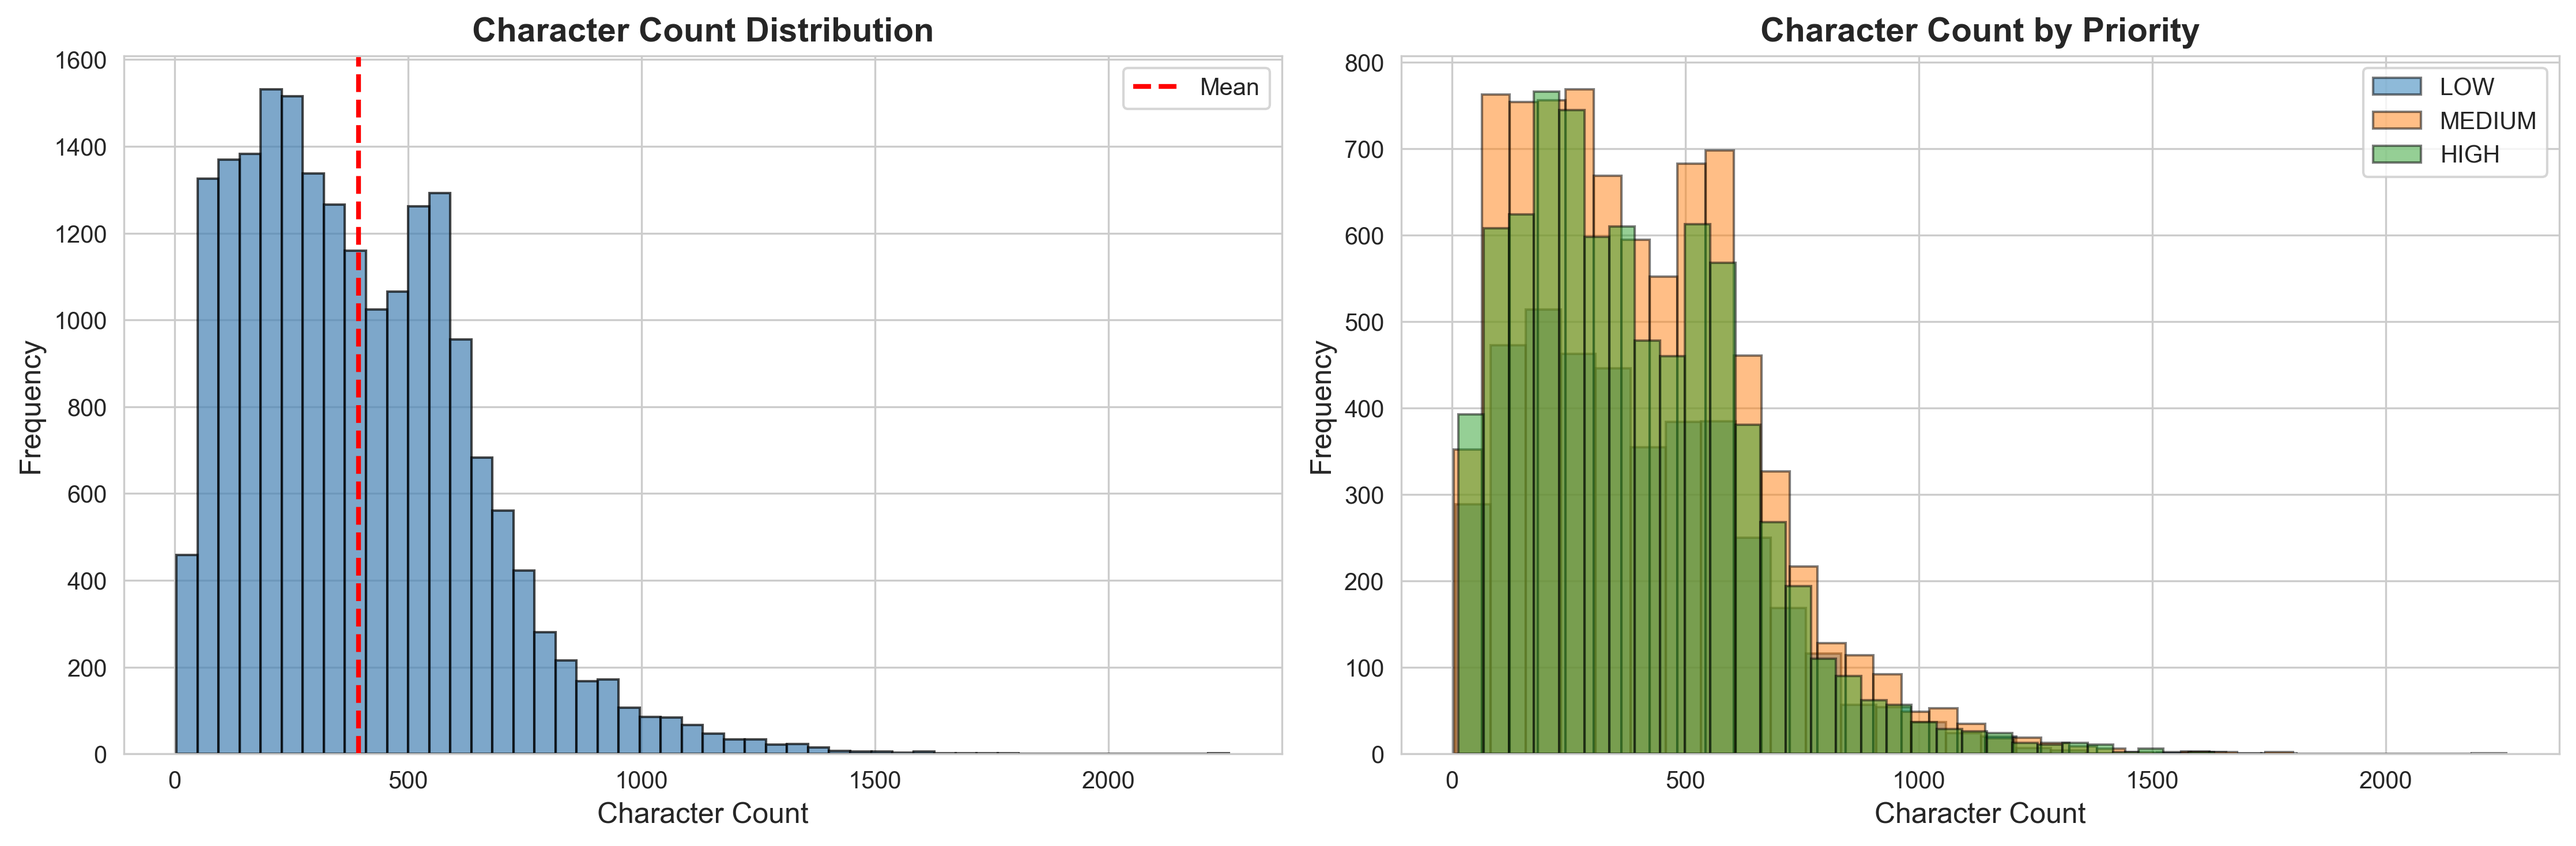
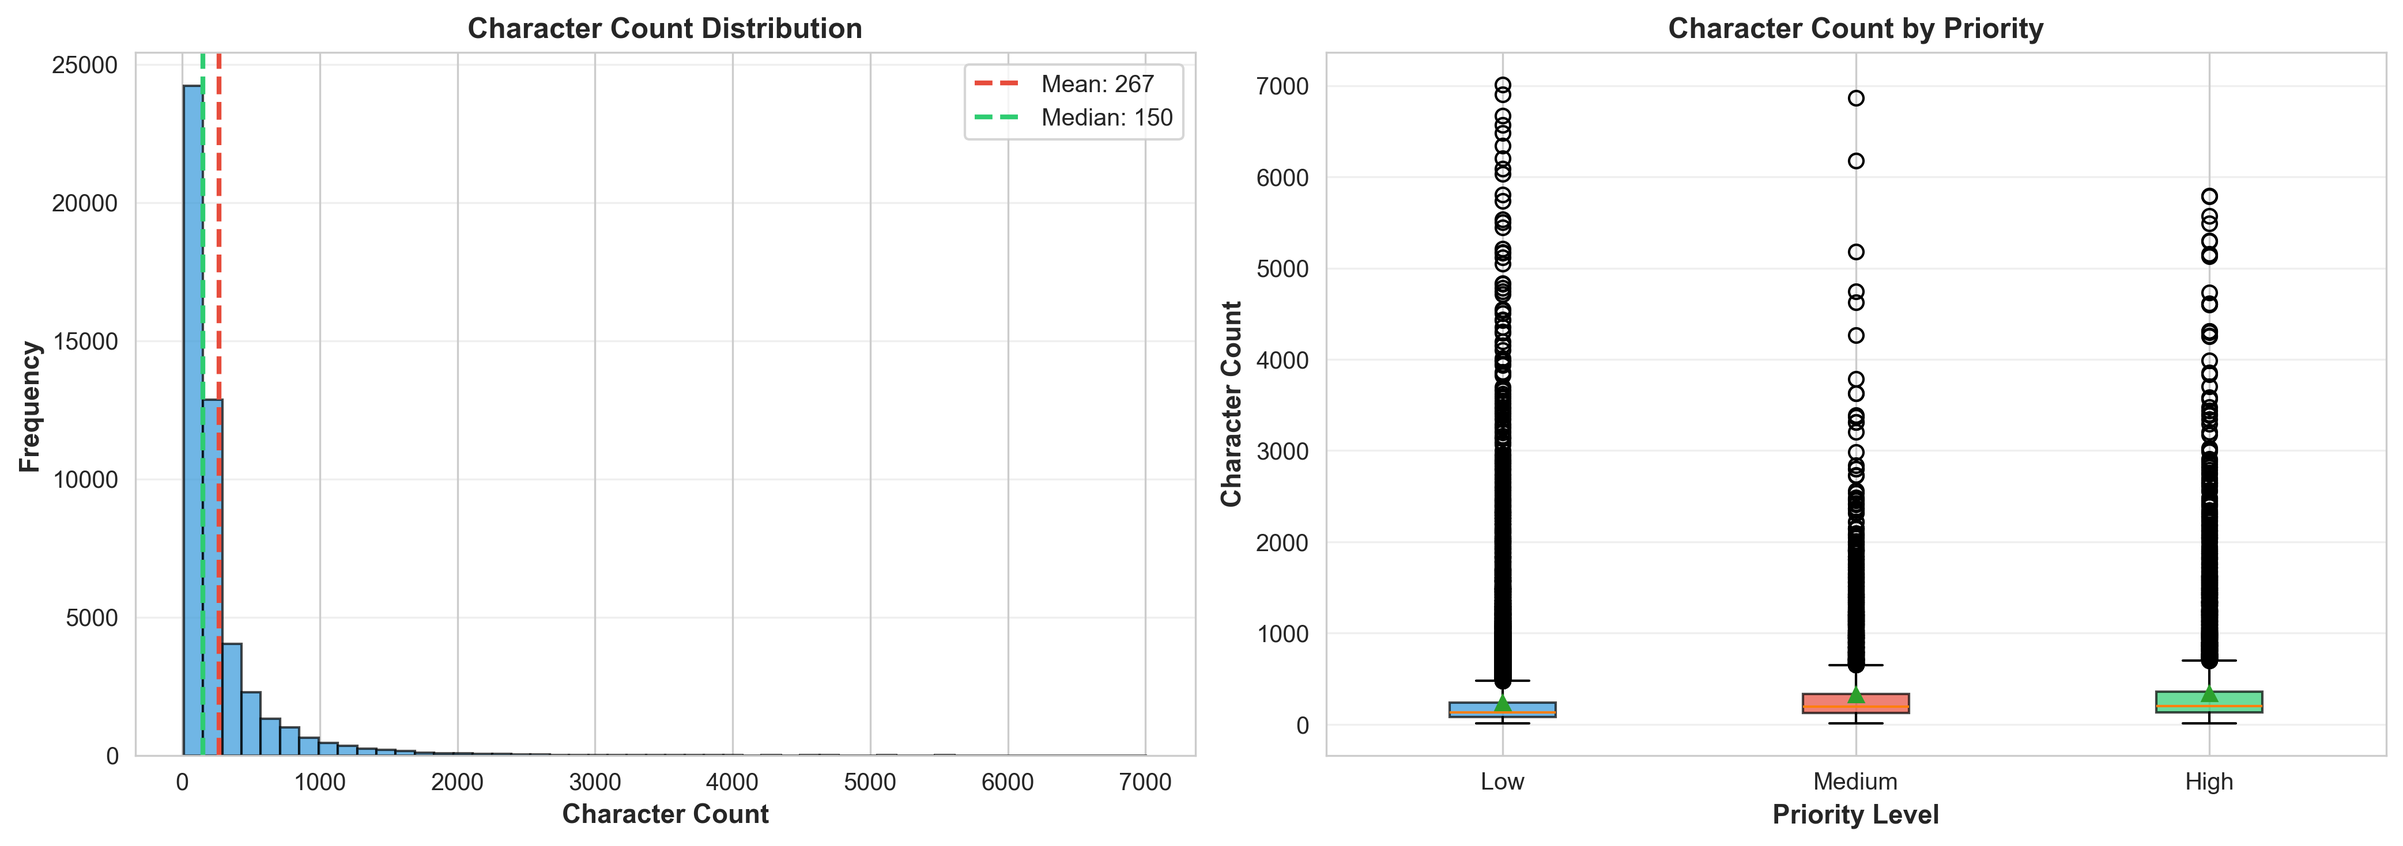
visualisations

diff --git a/urgency_classificator/scripts/generate_dataset_viz.py b/urgency_classificator/scripts/generate_dataset_viz.py
@@ -1,0 +1,333 @@
+#!/usr/bin/env python3
+"""
+Generate Dataset Analysis Visualizations
+
+Analyzes clean.csv and generates distribution charts:
+- Priority distribution (class balance)
+- Text length distributions (characters & words)
+- Sample statistics
+
+Usage:
+    python scripts/generate_dataset_viz.py
+    python scripts/generate_dataset_viz.py --output visualizations/
+"""
+
+import pandas as pd
+import matplotlib.pyplot as plt
+import seaborn as sns
+import numpy as np
+import argparse
+from pathlib import Path
+
+# Set style
+sns.set_style("whitegrid")
+plt.rcParams['figure.facecolor'] = 'white'
+
+
+def create_priority_distribution(df: pd.DataFrame, output_path: str):
+    """Create priority class distribution chart."""
+    fig, ax = plt.subplots(figsize=(10, 6))
+
+    # Count and percentage
+    priority_counts = df['priority'].value_counts().sort_index()
+    total = len(df)
+
+    colors = ['#3498db', '#e74c3c', '#2ecc71']
+    bars = ax.bar(
+        priority_counts.index.str.capitalize(),
+        priority_counts.values,
+        color=colors,
+        edgecolor='black',
+        linewidth=1.2
+    )
+
+    # Add value labels on bars
+    for i, (bar, count) in enumerate(zip(bars, priority_counts.values)):
+        height = bar.get_height()
+        percentage = (count / total) * 100
+        ax.text(
+            bar.get_x() + bar.get_width()/2.,
+            height + total * 0.01,
+            f'{count:,}\n({percentage:.1f}%)',
+            ha='center',
+            va='bottom',
+            fontsize=11,
+            fontweight='bold'
+        )
+
+    ax.set_xlabel('Priority Level', fontsize=12, fontweight='bold')
+    ax.set_ylabel('Number of Tickets', fontsize=12, fontweight='bold')
+    ax.set_title(f'Urgency Priority Distribution\nTotal: {total:,} tickets',
+                 fontsize=14, fontweight='bold', pad=20)
+    ax.grid(axis='y', alpha=0.3)
+
+    plt.tight_layout()
+    plt.savefig(output_path, dpi=300, bbox_inches='tight')
+    plt.close()
+    print(f"✓ Saved: {output_path}")
+
+
+def create_character_distribution(df: pd.DataFrame, output_path: str):
+    """Create character count distribution histogram."""
+    fig, (ax1, ax2) = plt.subplots(1, 2, figsize=(14, 5))
+
+    # Calculate character counts
+    char_counts = df['body'].str.len()
+
+    # Histogram
+    ax1.hist(char_counts, bins=50, color='#3498db',
+             edgecolor='black', alpha=0.7)
+    ax1.axvline(char_counts.mean(), color='#e74c3c', linestyle='--',
+                linewidth=2, label=f'Mean: {char_counts.mean():.0f}')
+    ax1.axvline(char_counts.median(), color='#2ecc71', linestyle='--',
+                linewidth=2, label=f'Median: {char_counts.median():.0f}')
+    ax1.set_xlabel('Character Count', fontsize=11, fontweight='bold')
+    ax1.set_ylabel('Frequency', fontsize=11, fontweight='bold')
+    ax1.set_title('Character Count Distribution',
+                  fontsize=12, fontweight='bold')
+    ax1.legend()
+    ax1.grid(axis='y', alpha=0.3)
+
+    # Box plot by priority
+    priority_order = ['low', 'medium', 'high']
+    df_with_chars = df.copy()
+    df_with_chars['char_count'] = char_counts
+
+    box_data = [df_with_chars[df_with_chars['priority'] == p]['char_count'].values
+                for p in priority_order]
+
+    bp = ax2.boxplot(box_data, labels=[p.capitalize() for p in priority_order],
+                     patch_artist=True, showmeans=True)
+
+    colors = ['#3498db', '#e74c3c', '#2ecc71']
+    for patch, color in zip(bp['boxes'], colors):
+        patch.set_facecolor(color)
+        patch.set_alpha(0.7)
+
+    ax2.set_xlabel('Priority Level', fontsize=11, fontweight='bold')
+    ax2.set_ylabel('Character Count', fontsize=11, fontweight='bold')
+    ax2.set_title('Character Count by Priority',
+                  fontsize=12, fontweight='bold')
+    ax2.grid(axis='y', alpha=0.3)
+
+    plt.tight_layout()
+    plt.savefig(output_path, dpi=300, bbox_inches='tight')
+    plt.close()
+    print(f"✓ Saved: {output_path}")
+
+
+def create_word_distribution(df: pd.DataFrame, output_path: str):
+    """Create word count distribution histogram."""
+    fig, (ax1, ax2) = plt.subplots(1, 2, figsize=(14, 5))
+
+    # Calculate word counts
+    word_counts = df['body'].str.split().str.len()
+
+    # Histogram
+    ax1.hist(word_counts, bins=50, color='#9b59b6',
+             edgecolor='black', alpha=0.7)
+    ax1.axvline(word_counts.mean(), color='#e74c3c', linestyle='--',
+                linewidth=2, label=f'Mean: {word_counts.mean():.0f}')
+    ax1.axvline(word_counts.median(), color='#2ecc71', linestyle='--',
+                linewidth=2, label=f'Median: {word_counts.median():.0f}')
+    ax1.set_xlabel('Word Count', fontsize=11, fontweight='bold')
+    ax1.set_ylabel('Frequency', fontsize=11, fontweight='bold')
+    ax1.set_title('Word Count Distribution', fontsize=12, fontweight='bold')
+    ax1.legend()
+    ax1.grid(axis='y', alpha=0.3)
+
+    # Box plot by priority
+    priority_order = ['low', 'medium', 'high']
+    df_with_words = df.copy()
+    df_with_words['word_count'] = word_counts
+
+    box_data = [df_with_words[df_with_words['priority'] == p]['word_count'].values
+                for p in priority_order]
+
+    bp = ax2.boxplot(box_data, labels=[p.capitalize() for p in priority_order],
+                     patch_artist=True, showmeans=True)
+
+    colors = ['#3498db', '#e74c3c', '#2ecc71']
+    for patch, color in zip(bp['boxes'], colors):
+        patch.set_facecolor(color)
+        patch.set_alpha(0.7)
+
+    ax2.set_xlabel('Priority Level', fontsize=11, fontweight='bold')
+    ax2.set_ylabel('Word Count', fontsize=11, fontweight='bold')
+    ax2.set_title('Word Count by Priority', fontsize=12, fontweight='bold')
+    ax2.grid(axis='y', alpha=0.3)
+
+    plt.tight_layout()
+    plt.savefig(output_path, dpi=300, bbox_inches='tight')
+    plt.close()
+    print(f"✓ Saved: {output_path}")
+
+
+def create_statistics_summary(df: pd.DataFrame, output_path: str):
+    """Create comprehensive statistics visualization."""
+    fig, ((ax1, ax2), (ax3, ax4)) = plt.subplots(2, 2, figsize=(14, 10))
+
+    # Calculate metrics
+    char_counts = df['body'].str.len()
+    word_counts = df['body'].str.split().str.len()
+
+    # 1. Dataset Overview
+    ax1.axis('off')
+    overview_text = f"""
+DATASET OVERVIEW
+{'='*40}
+
+Total Samples: {len(df):,}
+
+Class Distribution:
+  LOW:    {(df['priority'] == 'low').sum():,} ({(df['priority'] == 'low').sum()/len(df)*100:.1f}%)
+  MEDIUM: {(df['priority'] == 'medium').sum():,} ({(df['priority'] == 'medium').sum()/len(df)*100:.1f}%)
+  HIGH:   {(df['priority'] == 'high').sum():,} ({(df['priority'] == 'high').sum()/len(df)*100:.1f}%)
+
+Text Length (Characters):
+  Mean:   {char_counts.mean():.1f}
+  Median: {char_counts.median():.1f}
+  Min:    {char_counts.min()}
+  Max:    {char_counts.max():,}
+  95th:   {char_counts.quantile(0.95):.0f}
+
+Text Length (Words):
+  Mean:   {word_counts.mean():.1f}
+  Median: {word_counts.median():.1f}
+  Min:    {word_counts.min()}
+  Max:    {word_counts.max():,}
+  95th:   {word_counts.quantile(0.95):.0f}
+    """
+    ax1.text(0.1, 0.5, overview_text, fontsize=10, family='monospace',
+             verticalalignment='center')
+    ax1.set_title('Dataset Statistics', fontsize=14, fontweight='bold', pad=20)
+
+    # 2. Percentile distribution (characters)
+    percentiles = [10, 25, 50, 75, 90, 95, 99]
+    char_percentiles = [char_counts.quantile(p/100) for p in percentiles]
+
+    ax2.barh(percentiles, char_percentiles, color='#3498db', edgecolor='black')
+    for i, (p, val) in enumerate(zip(percentiles, char_percentiles)):
+        ax2.text(val + char_counts.max()*0.02, p, f'{val:.0f}',
+                 va='center', fontweight='bold')
+    ax2.set_xlabel('Character Count', fontsize=11, fontweight='bold')
+    ax2.set_ylabel('Percentile', fontsize=11, fontweight='bold')
+    ax2.set_title('Character Count Percentiles',
+                  fontsize=12, fontweight='bold')
+    ax2.grid(axis='x', alpha=0.3)
+
+    # 3. Priority vs Length correlation
+    priority_stats = df.groupby('priority').agg({
+        'body': lambda x: x.str.len().mean()
+    }).reindex(['low', 'medium', 'high'])
+
+    bars = ax3.bar(
+        ['Low', 'Medium', 'High'],
+        priority_stats['body'],
+        color=['#3498db', '#e74c3c', '#2ecc71'],
+        edgecolor='black'
+    )
+
+    for bar in bars:
+        height = bar.get_height()
+        ax3.text(bar.get_x() + bar.get_width()/2., height + 5,
+                 f'{height:.0f}', ha='center', fontweight='bold')
+
+    ax3.set_ylabel('Avg Character Count', fontsize=11, fontweight='bold')
+    ax3.set_title('Average Text Length by Priority',
+                  fontsize=12, fontweight='bold')
+    ax3.grid(axis='y', alpha=0.3)
+
+    # 4. Cumulative distribution
+    sorted_chars = np.sort(char_counts)
+    cumulative = np.arange(1, len(sorted_chars) + 1) / len(sorted_chars) * 100
+
+    ax4.plot(sorted_chars, cumulative, color='#3498db', linewidth=2)
+    ax4.axhline(95, color='#e74c3c', linestyle='--', label='95th percentile')
+    ax4.axvline(char_counts.quantile(0.95), color='#e74c3c', linestyle='--')
+    ax4.set_xlabel('Character Count', fontsize=11, fontweight='bold')
+    ax4.set_ylabel('Cumulative Percentage', fontsize=11, fontweight='bold')
+    ax4.set_title('Cumulative Distribution of Text Length',
+                  fontsize=12, fontweight='bold')
+    ax4.legend()
+    ax4.grid(alpha=0.3)
+
+    plt.tight_layout()
+    plt.savefig(output_path, dpi=300, bbox_inches='tight')
+    plt.close()
+    print(f"✓ Saved: {output_path}")
+
+
+def main():
+    parser = argparse.ArgumentParser(
+        description='Generate dataset analysis visualizations from clean.csv'
+    )
+    parser.add_argument(
+        '--data',
+        type=str,
+        default='data/clean.csv',
+        help='Path to clean.csv (default: data/clean.csv)'
+    )
+    parser.add_argument(
+        '--output',
+        type=str,
+        default='visualizations',
+        help='Output directory for visualizations (default: visualizations/)'
+    )
+
+    args = parser.parse_args()
+
+    # Setup paths
+    data_path = Path(args.data)
+    output_dir = Path(args.output)
+    output_dir.mkdir(parents=True, exist_ok=True)
+
+    print("="*70)
+    print("GENERATING DATASET VISUALIZATIONS")
+    print("="*70)
+    print(f"Data: {data_path}")
+    print(f"Output: {output_dir}/\n")
+
+    # Load data
+    if not data_path.exists():
+        print(f"❌ Error: Data file not found: {data_path}")
+        return
+
+    df = pd.read_csv(data_path)
+    print(f"✓ Loaded {len(df):,} samples\n")
+
+    # Generate visualizations
+    print("Generating visualizations...")
+
+    create_priority_distribution(
+        df,
+        str(output_dir / 'priority_distribution.png')
+    )
+
+    create_character_distribution(
+        df,
+        str(output_dir / 'character_count_distribution.png')
+    )
+
+    create_word_distribution(
+        df,
+        str(output_dir / 'word_count_distribution.png')
+    )
+
+    create_statistics_summary(
+        df,
+        str(output_dir / 'dataset_statistics.png')
+    )
+
+    print("\n" + "="*70)
+    print(f"✅ All visualizations saved to: {output_dir}/")
+    print("\nGenerated files:")
+    print("  - priority_distribution.png")
+    print("  - character_count_distribution.png")
+    print("  - word_count_distribution.png")
+    print("  - dataset_statistics.png")
+    print("="*70)
+
+
+if __name__ == '__main__':
+    main()
